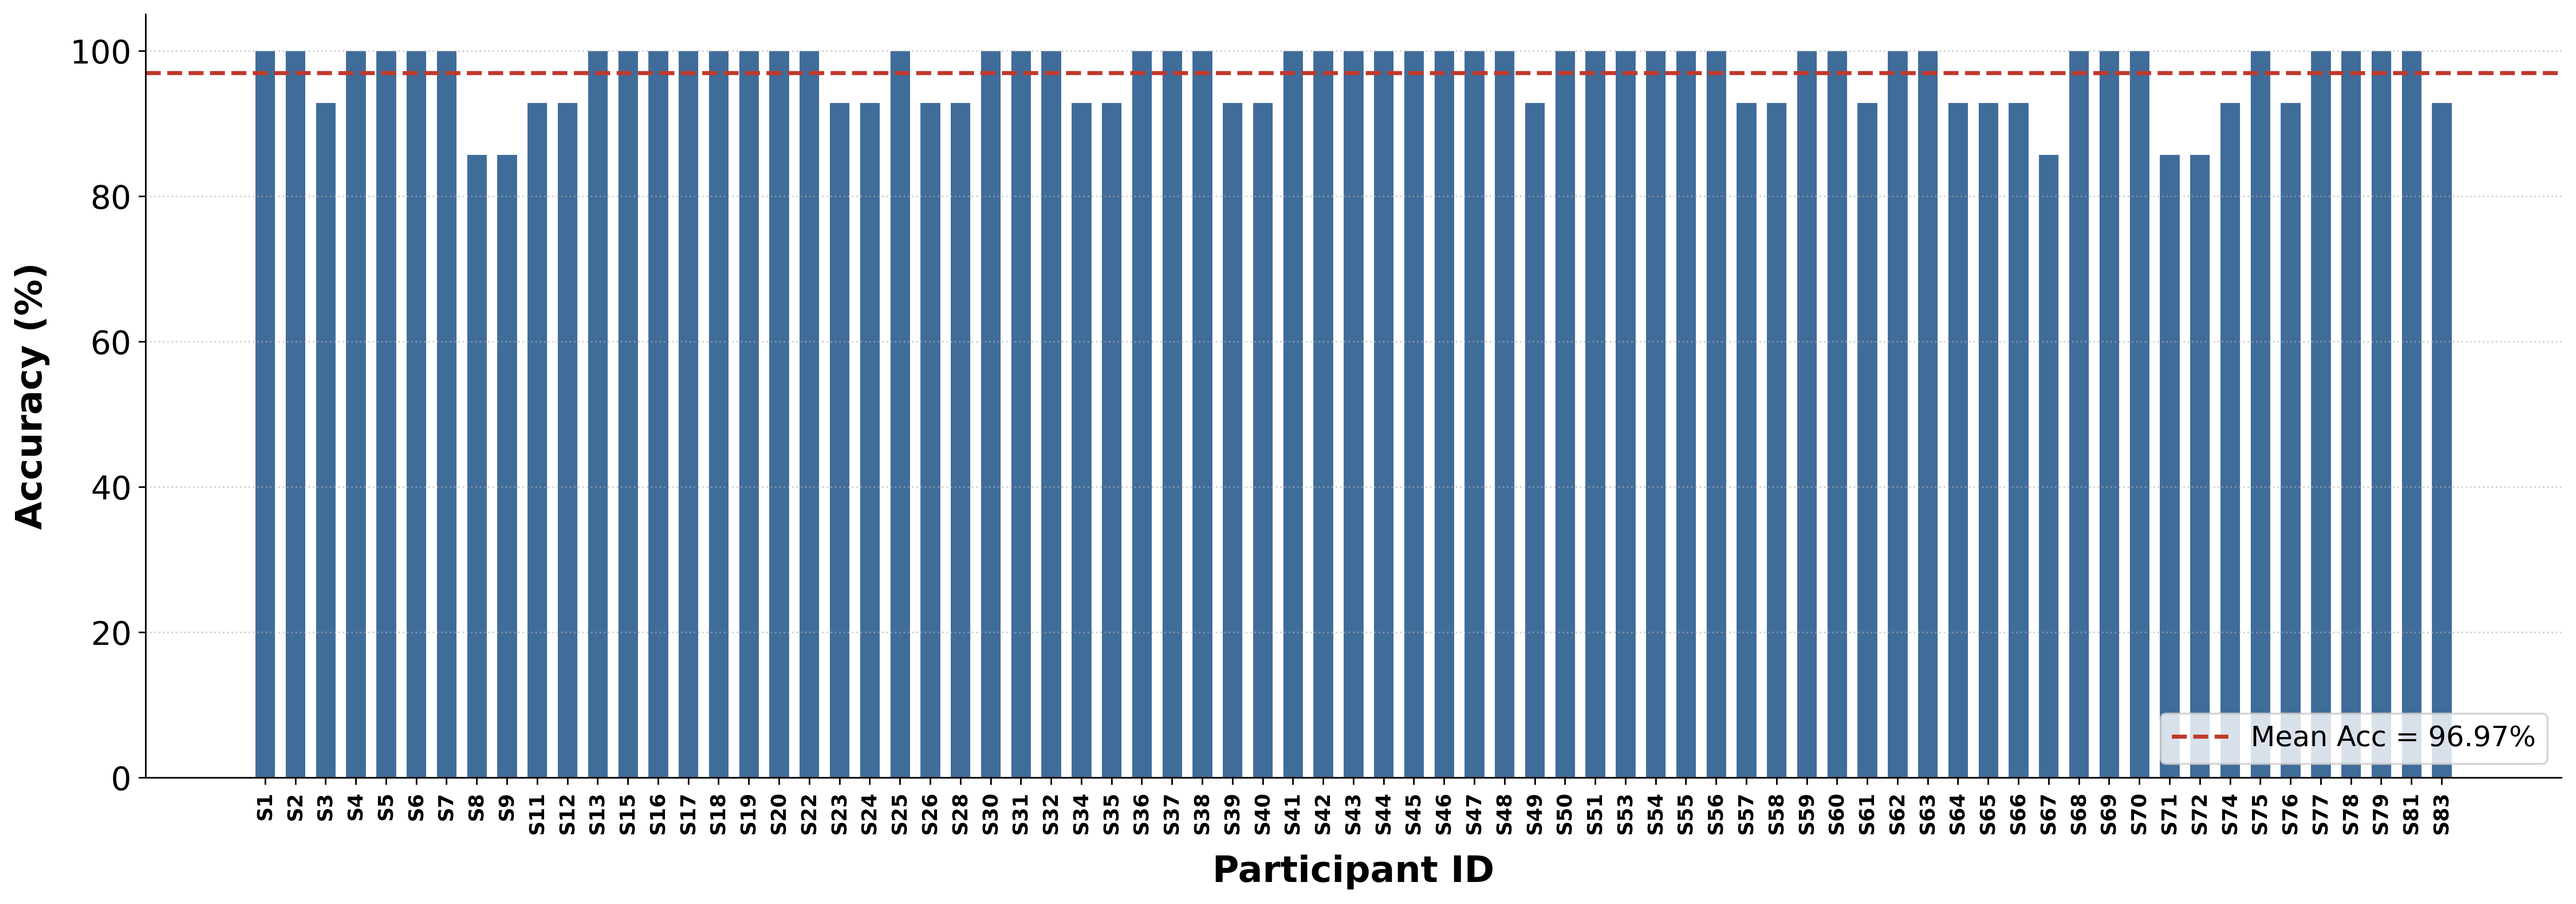
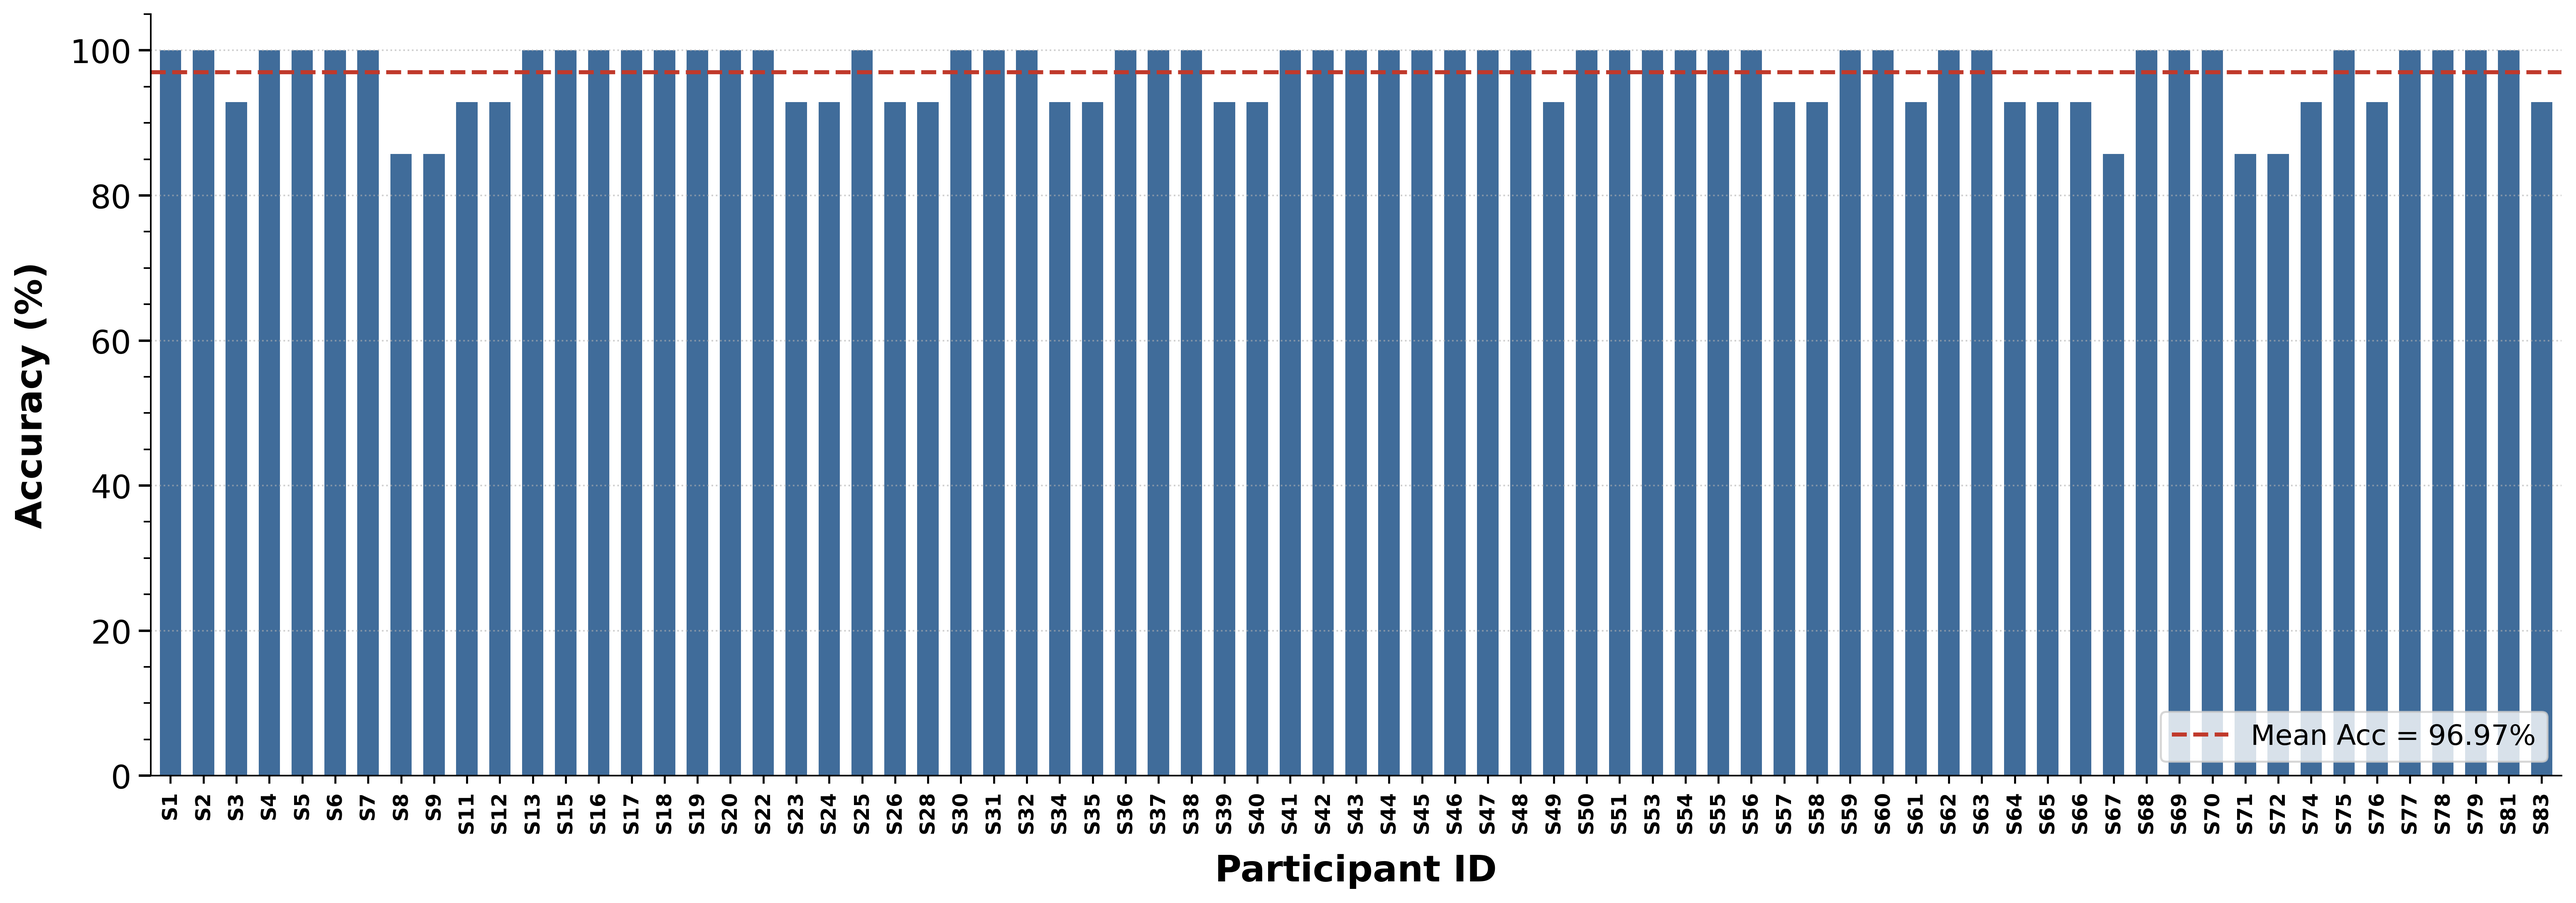
bar

diff --git a/plot_loso_bar.py b/plot_loso_bar.py
@@ -10,6 +10,7 @@ import json
 import matplotlib.pyplot as plt
 import numpy as np
 from pathlib import Path
+from matplotlib.ticker import MultipleLocator, AutoMinorLocator
 
 plt.rcParams['font.sans-serif'] = ['Arial', 'Helvetica', 'DejaVu Sans']
 plt.rcParams['font.family'] = 'sans-serif'
@@ -47,7 +48,18 @@ def main():
     
     ax.set_xticks(x)
     ax.set_xticklabels(subj_ids, rotation=90, fontsize=10, fontweight="bold")
+    
+    # Reduce whitespace on left and right borders
+    ax.set_xlim([-0.6, len(subj_ids) - 0.4])
     ax.set_ylim([0, 105])
+    
+    # Major and minor axis ticks configuration
+    ax.yaxis.set_major_locator(MultipleLocator(20))
+    ax.yaxis.set_minor_locator(MultipleLocator(5))
+    
+    ax.tick_params(axis='y', which='major', length=6, width=1.2, labelsize=16)
+    ax.tick_params(axis='y', which='minor', length=3.5, width=0.8)
+    ax.tick_params(axis='x', which='major', length=4, width=1.0)
     
     # Remove top and right box spines for an open, modern aesthetic
     ax.spines['top'].set_visible(False)
